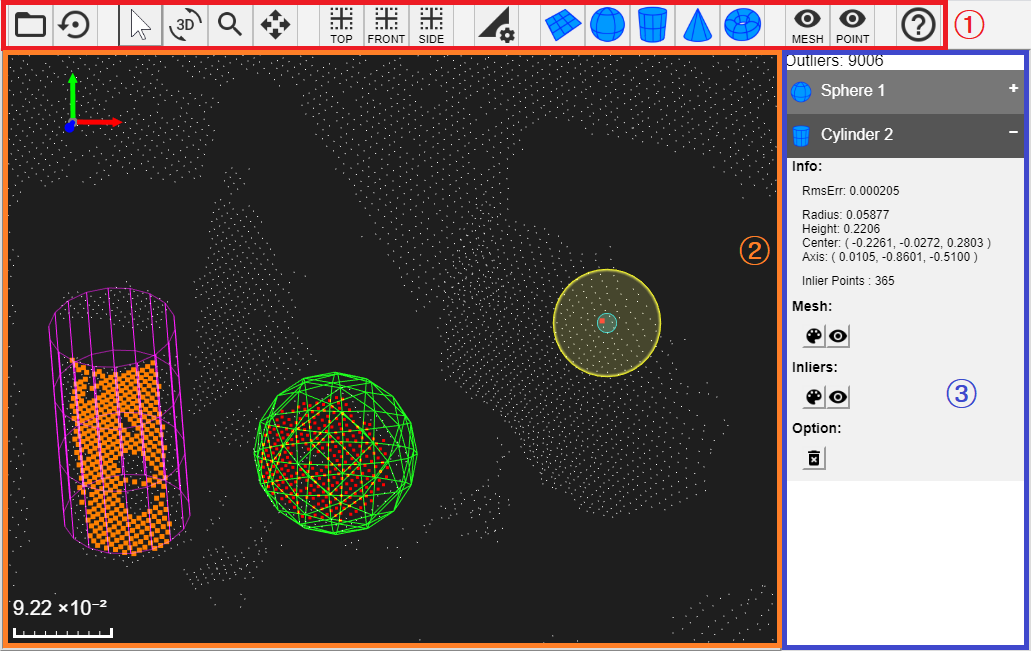
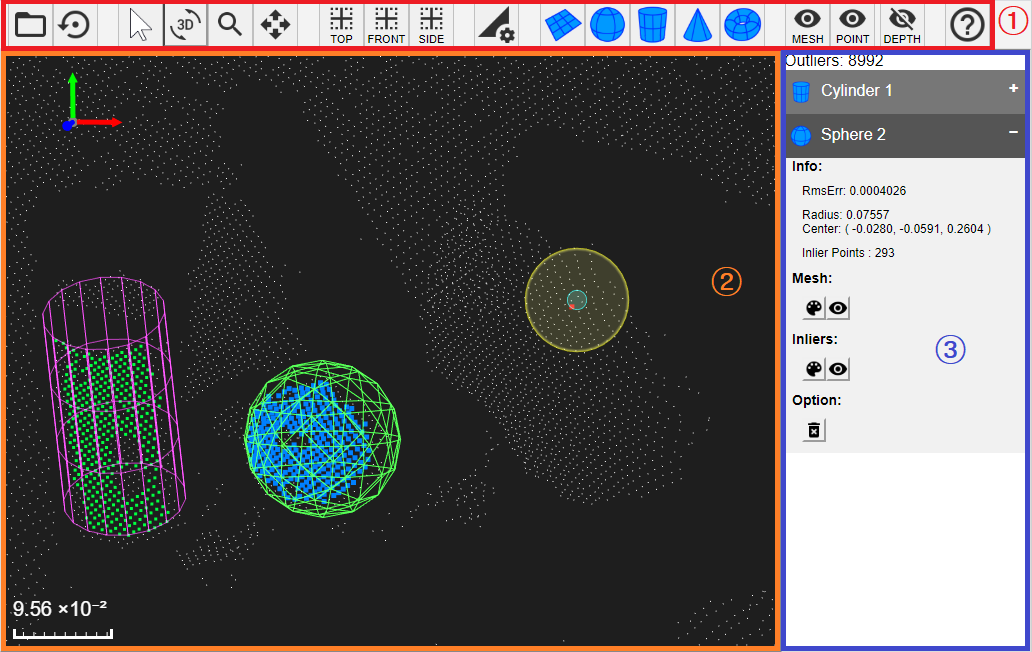
Add the depth-color mapping part in the manual
modified:   Manual/img/FindSurfaceWeb-manual.png
	new file:   Manual/img/depth-color.png
	new file:   Manual/img/key-d.png
	new file:   Manual/img/no-depth-color.png
	new file:   Manual/img/visibility-depth.png
	new file:   Manual/img/visibility-mesh.png
	new file:   Manual/img/visibility-point.png
	modified:   Manual/interface.html
	modified:   Manual/stepbystep.html

diff --git a/Manual/interface.html b/Manual/interface.html
@@ -134,6 +134,26 @@ td img { max-width: none !important; }
 </tr>
 </tbody>
 </table>
+<h3 id="visibility">Visibility</h3>
+<table>
+<tbody>
+<tr>
+<td><img src="img/visibility-mesh.png" alt=""></td>
+<td style="text-align:center">Mesh Visibility</td>
+<td style="text-align:left">Show/Hide all meshes.</td>
+</tr>
+<tr>
+<td><img src="img/visibility-point.png" alt=""></td>
+<td style="text-align:center">(Inlier) Point Visibility</td>
+<td style="text-align:left">Show/Hide all inlier points.</td>
+</tr>
+<tr>
+<td><img src="img/visibility-depth.png" alt=""></td>
+<td style="text-align:center">Depth Visibility</td>
+<td style="text-align:left">Enable/Disable <a href="stepbystep.html#depth-color-mapping" target="_blank">depth-color mapping</a>.</td>
+</tr>
+</tbody>
+</table>
 <h3 id="etc">ETC</h3>
 <table>
 <tbody>
@@ -145,35 +165,6 @@ td img { max-width: none !important; }
 </tbody>
 </table>
 <h2 id="webgl-canvas">WebGL Canvas</h2>
-<h3 id="alternative-ways">Alternative ways to manipulate the view</h3>
-<p>You can manipulate the view by using the following shortcuts regardless of which button you have clicked in the menu bar: </p>
-<table class="shortcut-icons">
-<tbody>
-<tr>
-<td style="text-align:center"><span></span><img src="img/arrow-left.png" alt=""><img src="img/arrow-up.png" alt=""><img src="img/arrow-down.png" alt=""><img src="img/arrow-right.png" alt=""></span></td>
-<td style="text-align:left">Rotates the point cloud by 1 degree in a given direction. </td>
-</tr>
-<tr>
-<td style="text-align:center"><img src="img/ctrl.png" alt="" > + <span><img src="img/arrow-left.png" alt=""><img src="img/arrow-up.png" alt=""><img src="img/arrow-down.png" alt=""><img src="img/arrow-right.png" alt=""></span></td>
-<td style="text-align:left">Rotates the point cloud by 0.05 degree in a given direction. </td>
-</tr>
-<tr>
-<td style="text-align:center"><img src="img/shift.png" alt=""> + <span><img src="img/arrow-left.png" alt=""><img src="img/arrow-up.png" alt=""><img src="img/arrow-down.png" alt=""><img src="img/arrow-right.png" alt=""></span></td>
-<td style="text-align:left">Rotates the point cloud by 10 degree in a given direction. </td>
-</tr>
-<tr>
-<td style="text-align:center"><img src="img/wheel-button.png" alt=""> + <img src="img/drag.png" alt=""><br/>(Dragging mouse wheel)</td>
-<td style="text-align:left">Moves the point cloud.</td>
-</tr>
-<tr>
-<td style="text-align:center"><img src="img/rotate-wheel.png" alt=""><br/>(Rotating mouse wheel)</td>
-<td style="text-align:left">Zooms in/out the point cloud. This feature is not available in case of using Internet Explorer browsers.</td>
-</tr>
-</tbody>
-</table>
-<blockquote>
-<p>Note: These shortcuts take effect if the canvas is in focus. You have to click the canvas before using the shortcuts, if you clicked other UI elements such as the menu-bar buttons, Information panels. </p>
-</blockquote>
 <h3 id="visual-cues">Visual Cues</h3>
 <table>
 <tbody>
@@ -223,6 +214,37 @@ td img { max-width: none !important; }
 <td><img src="img/remove.png" alt=""></td>
 <td style="text-align:center">Remove</td>
 <td style="text-align:left">Allows users to remove the mesh and inlier points of a geometry.</td>
+</tr>
+</tbody>
+</table>
+
+<h2 id="alternative-ways">Alternative ways to manipulate the view</h2>
+<p>You can manipulate the view by using the following shortcuts instead of accessing the menu bar: </p>
+<table class="shortcut-icons">
+<tbody>
+<tr>
+<td style="text-align:center"><span></span><img src="img/arrow-left.png" alt=""><img src="img/arrow-up.png" alt=""><img src="img/arrow-down.png" alt=""><img src="img/arrow-right.png" alt=""></span></td>
+<td style="text-align:left">Rotates the point cloud by 1 degree in a given direction. </td>
+</tr>
+<tr>
+<td style="text-align:center"><img src="img/ctrl.png" alt="" > + <span><img src="img/arrow-left.png" alt=""><img src="img/arrow-up.png" alt=""><img src="img/arrow-down.png" alt=""><img src="img/arrow-right.png" alt=""></span></td>
+<td style="text-align:left">Rotates the point cloud by 0.05 degree in a given direction. </td>
+</tr>
+<tr>
+<td style="text-align:center"><img src="img/shift.png" alt=""> + <span><img src="img/arrow-left.png" alt=""><img src="img/arrow-up.png" alt=""><img src="img/arrow-down.png" alt=""><img src="img/arrow-right.png" alt=""></span></td>
+<td style="text-align:left">Rotates the point cloud by 10 degree in a given direction. </td>
+</tr>
+<tr>
+<td style="text-align:center"><img src="img/wheel-button.png" alt=""> + <img src="img/drag.png" alt=""><br/>(Dragging mouse wheel)</td>
+<td style="text-align:left">Moves the point cloud.</td>
+</tr>
+<tr>
+<td style="text-align:center"><img src="img/rotate-wheel.png" alt=""><br/>(Rotating mouse wheel)</td>
+<td style="text-align:left">Zooms in/out the point cloud. This feature is not available in case of using Internet Explorer browsers.</td>
+</tr>
+<tr>
+<td style="text-align:center"><img src="img/key-d.png" alt=""></td>
+<td style="text-align:left">Enable/disable depth-color mapping.</td>
 </tr>
 </tbody>
 </table>

diff --git a/Manual/stepbystep.html b/Manual/stepbystep.html
@@ -80,6 +80,18 @@ td img { max-width: none !important; }
 </tr>
 </tbody>
 </table>
+<p id="depth-color-mapping">Since the camera depicts the scene by using orthographic projection, all points and geometries are drawn in the same scale without considering perspective. You may enable depth-color mapping to make objects and points in the distance darker.</p>
+<p>Click <img src="img/visibility-depth.png" alt="depth button"> button to enable the depth-color mapping feature.</p>
+
+<table style="width:100%; border:none; overflow: hidden;">
+<tbody>
+<tr style="border:none; ">
+<td style="width: 50%; border:none;"><img style="width:100%;" src="img/no-depth-color.png" alt="a scene without depth-color mapping"><figcaption>Fig.1 a scene without depth-color mapping.</figcaption></td>
+<td style="width: 50%; border:none;"><img style="width:100%;" src="img/depth-color.png" alt="a scene with depth-color mapping"><figcaption>Fig.2 a scene with depth-color mapping.</figcaption></td>
+</tr>
+</tbody>
+</table>
+
 <h2 id="how-to-setup-findsurface-parameters">How to Setup <strong>FindSurface</strong> Parameters</h2>
 <p>You can skip this section if you loaded one of the preset data that our server provides. The parameters are automatically set to appropriate values. Before running the <strong>FindSurface</strong> Algorithm, you have to set the algorithm parameters.</p>
 <ol>
